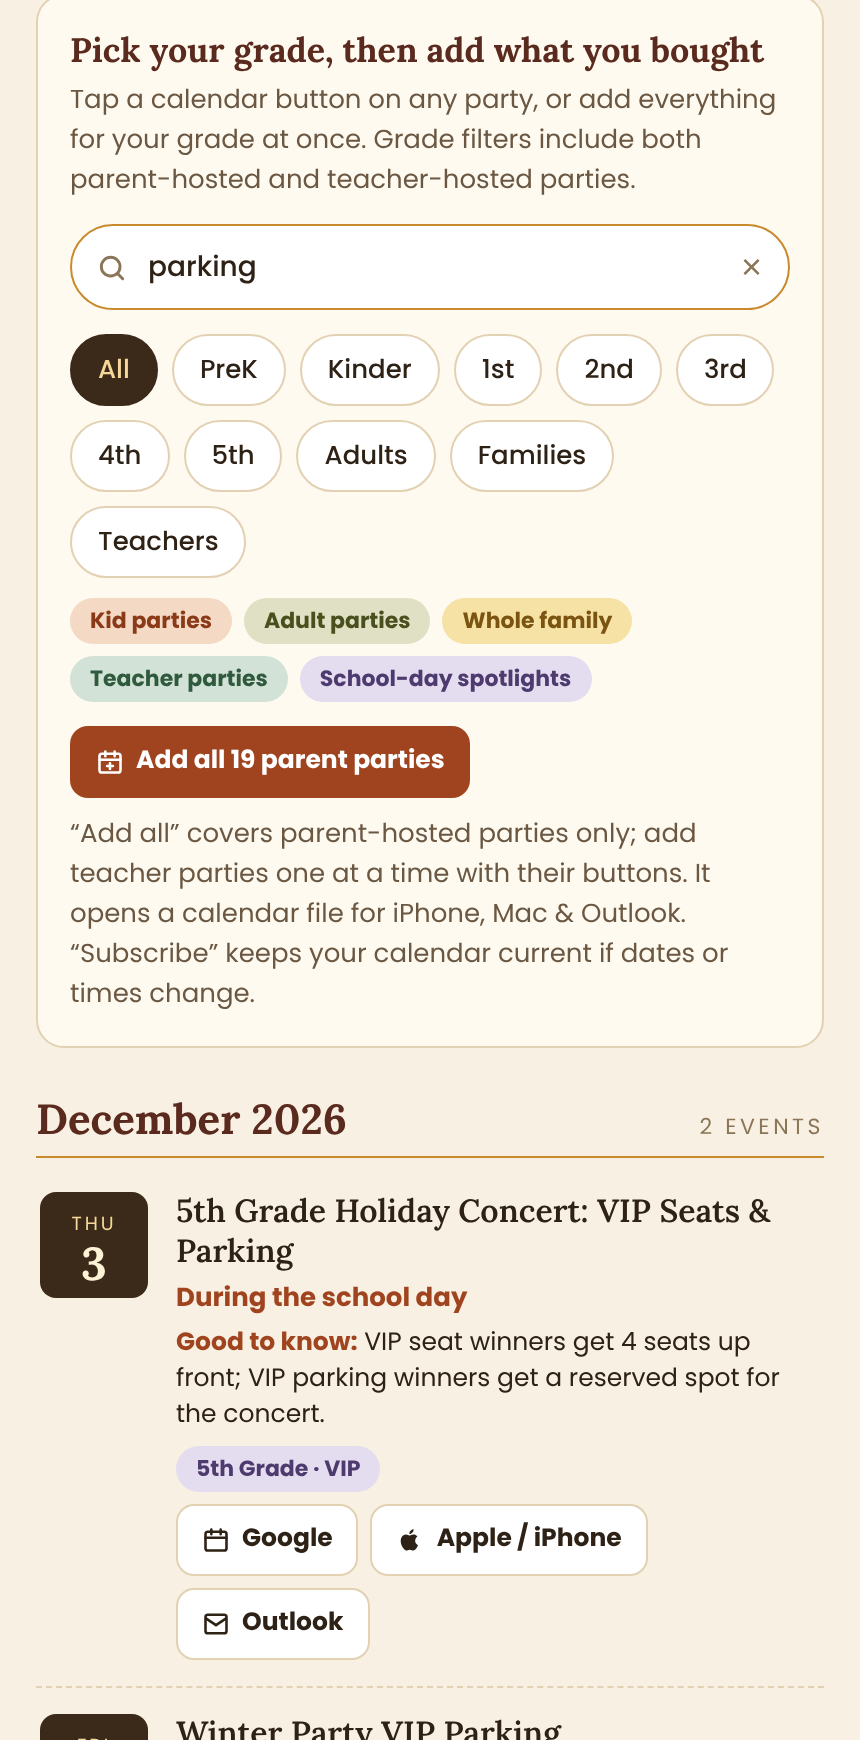
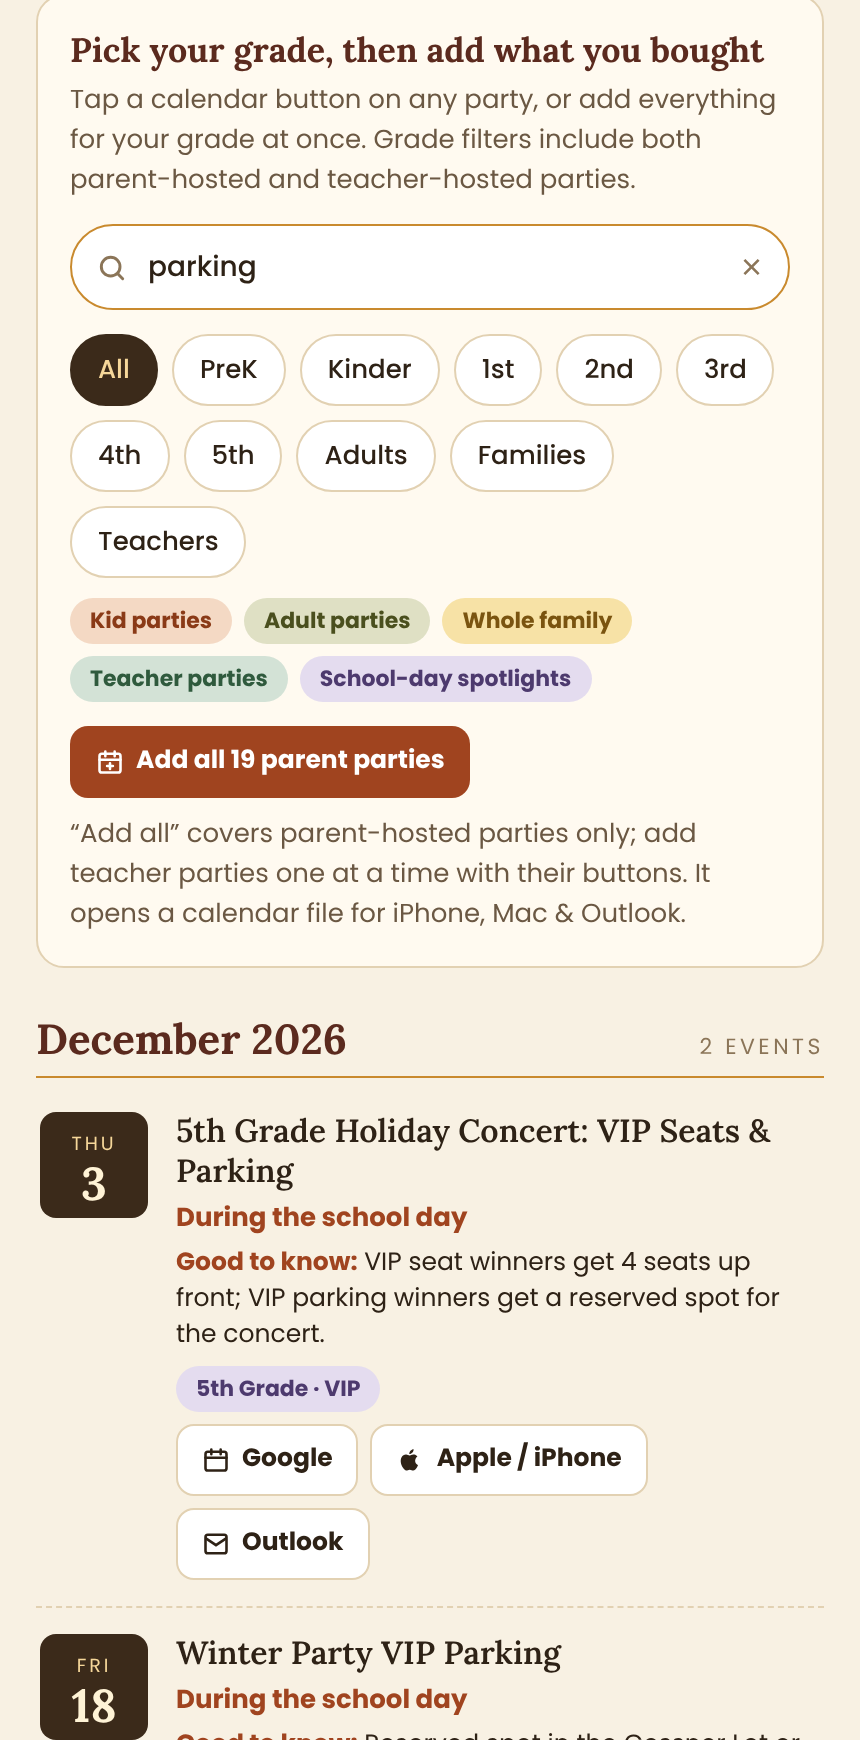
Remove Subscribe button (it added every party in the feed)
Claude-Session: https://claude.ai/code/session_01LyeQTpA45CSL1Q7dmfh82q

diff --git a/index.html b/index.html
@@ -110,9 +110,8 @@ footer b{font:600 11px Poppins,sans-serif;letter-spacing:.2em;color:var(--rust);
     <div class="legend"><span class="chip kid">Kid parties</span><span class="chip adult">Adult parties</span><span class="chip family">Whole family</span><span class="chip teacher">Teacher parties</span><span class="chip school">School-day spotlights</span></div>
     <div class="addall"><a class="btn primary" id="allLink" href="frostwood-all-parties.ics">
       <svg viewBox="0 0 24 24" fill="none" stroke="currentColor" stroke-width="2.2" stroke-linecap="round"><rect x="3" y="5" width="18" height="16" rx="2"/><path d="M3 10h18M8 3v4M16 3v4M12 13v5M9.5 15.5h5"/></svg>
-      <span id="allLabel">Add all parties</span></a>
-      <a class="btn ghost" id="subLink" href="#">Subscribe (updates automatically)</a></div>
-    <p class="small" style="margin-top:8px">“Add all” covers parent-hosted parties only; add teacher parties one at a time with their buttons. It opens a calendar file for iPhone, Mac &amp; Outlook. “Subscribe” keeps your calendar current if dates or times change.</p>
+      <span id="allLabel">Add all parties</span></a></div>
+    <p class="small" style="margin-top:8px">“Add all” covers parent-hosted parties only; add teacher parties one at a time with their buttons. It opens a calendar file for iPhone, Mac &amp; Outlook.</p>
       </div>
   <div id="nextup"></div>
   <div id="list"></div>
@@ -172,9 +171,6 @@ function render(){
   const pp = cur==="adults"||cur==="family" ? "" : " parent";
   document.getElementById("allLabel").textContent = cur==="all" ? `Add all ${dated} parent parties` : (dated>1 ? `Add all ${dated} ${label}${pp} parties` : `Add the ${label}${pp} party`);
   all.style.display = dated ? "" : "none";
-  const sub = document.getElementById("subLink");
-  sub.href = "webcal://" + location.host + location.pathname.replace(/[^/]*$/, "") + file;
-  sub.style.display = (dated && location.protocol.startsWith("http")) ? "" : "none";
   document.getElementById("nextup").innerHTML = words.length ? "" : nextUp(shown);
   let html = "";
   for (const m of Object.keys(SUBS)) {
